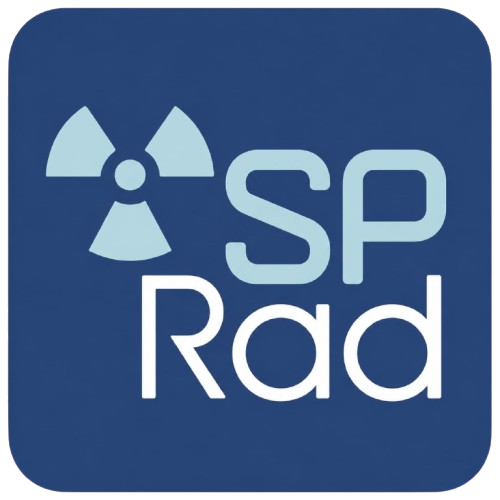
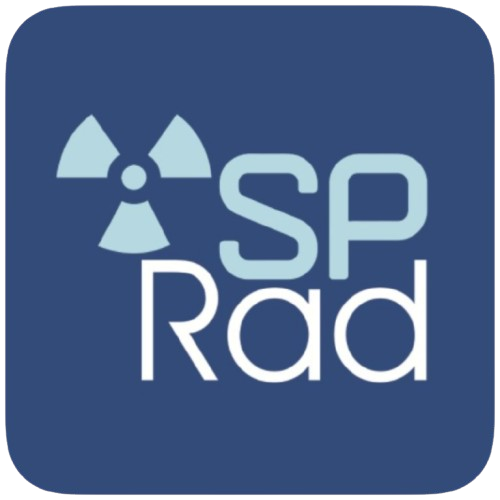
novo iconv2

diff --git a/controle-de-qualidade-em-monitores-e-negatoscopios.html b/controle-de-qualidade-em-monitores-e-negatoscopios.html
@@ -1,4 +1,4 @@
-<!DOCTYPE html>
+<!DOCTYPE html>
 <html lang="pt-br">
 <head>
 <!-- Google Tag Manager -->
@@ -17,8 +17,8 @@ j=d.createElement(s),dl=l!='dataLayer'?'&l='+l:'';j.async=true;j.src=
 <meta property="og:type" content="website">
 <meta property="og:title" content="Controle de Qualidade em Monitores e Negatoscópios | SP Rad">
 <meta property="og:description" content="Controle de qualidade para visualização diagnóstica com máxima precisão.">
-<meta property="og:url" content="https://pedroferrao.com/controle-de-qualidade-em-monitores-e-negatoscopios">
-<meta property="og:image" content="https://pedroferrao.com/miniaturas/controle-de-qualidade-em-monitores-e-negatoscopios.jpg">
+<meta property="og:url" content="https://www.sprad.com.br/controle-de-qualidade-em-monitores-e-negatoscopios">
+<meta property="og:image" content="https://www.sprad.com.br/miniaturas/controle-de-qualidade-em-monitores-e-negatoscopios.jpg">
 <meta property="og:site_name" content="SP Rad">
 <title>Controle de Qualidade em Monitores e Negatoscópios | SP Rad</title>
 <link href="https://fonts.googleapis.com/css2?family=Poppins:wght@300;400;500;600;700;800&display=swap" rel="stylesheet">

diff --git a/controle-de-qualidade-em-ressonancia-magnetica.html b/controle-de-qualidade-em-ressonancia-magnetica.html
@@ -1,4 +1,4 @@
-<!DOCTYPE html>
+<!DOCTYPE html>
 <html lang="pt-br">
 <head>
 <!-- Google Tag Manager -->
@@ -17,8 +17,8 @@ j=d.createElement(s),dl=l!='dataLayer'?'&l='+l:'';j.async=true;j.src=
 <meta property="og:type" content="website">
 <meta property="og:title" content="Controle de Qualidade em Ressonância Magnética | SP Rad">
 <meta property="og:description" content="Avaliação da qualidade e desempenho de equipamentos de ressonância magnética.">
-<meta property="og:url" content="https://pedroferrao.com/controle-de-qualidade-em-ressonancia-magnetica">
-<meta property="og:image" content="https://pedroferrao.com/miniaturas/controle-de-qualidade-em-ressonancia-magnetica.jpeg">
+<meta property="og:url" content="https://www.sprad.com.br/controle-de-qualidade-em-ressonancia-magnetica">
+<meta property="og:image" content="https://www.sprad.com.br/miniaturas/controle-de-qualidade-em-ressonancia-magnetica.jpeg">
 <meta property="og:site_name" content="SP Rad">
 <title>Controle de Qualidade em Ressonância Magnética | SP Rad</title>
 <link href="https://fonts.googleapis.com/css2?family=Poppins:wght@300;400;500;600;700;800&display=swap" rel="stylesheet">

diff --git a/levantamento-radiometrico-e-teste-de-fuga.html b/levantamento-radiometrico-e-teste-de-fuga.html
@@ -1,4 +1,4 @@
-<!DOCTYPE html>
+<!DOCTYPE html>
 <html lang="pt-br">
 <head>
 <!-- Google Tag Manager -->
@@ -17,8 +17,8 @@ j=d.createElement(s),dl=l!='dataLayer'?'&l='+l:'';j.async=true;j.src=
 <meta property="og:type" content="website">
 <meta property="og:title" content="Levantamento Radiométrico e Teste de Fuga | SP Rad">
 <meta property="og:description" content="Avaliação radiométrica e testes de fuga com precisão e conformidade normativa.">
-<meta property="og:url" content="https://pedroferrao.com/levantamento-radiometrico-e-teste-de-fuga">
-<meta property="og:image" content="https://pedroferrao.com/miniaturas/levantamento-radiometrico-e-teste-de-fuga.jpeg">
+<meta property="og:url" content="https://www.sprad.com.br/levantamento-radiometrico-e-teste-de-fuga">
+<meta property="og:image" content="https://www.sprad.com.br/miniaturas/levantamento-radiometrico-e-teste-de-fuga.jpeg">
 <meta property="og:site_name" content="SP Rad">
 <title>Levantamento Radiométrico e Teste de Fuga | SP Rad</title>
 <link href="https://fonts.googleapis.com/css2?family=Poppins:wght@300;400;500;600;700;800&display=swap" rel="stylesheet">

diff --git a/integridade-de-epis-radiologicos.html b/integridade-de-epis-radiologicos.html
@@ -1,4 +1,4 @@
-<!DOCTYPE html>
+<!DOCTYPE html>
 <html lang="pt-br">
 <head>
 <!-- Google Tag Manager -->
@@ -17,8 +17,8 @@ j=d.createElement(s),dl=l!='dataLayer'?'&l='+l:'';j.async=true;j.src=
 <meta property="og:type" content="website">
 <meta property="og:title" content="Avaliação de Integridade de EPIs Radiológicos | SP Rad">
 <meta property="og:description" content="Avaliação da integridade de EPIs radiológicos para maior segurança ocupacional.">
-<meta property="og:url" content="https://pedroferrao.com/integridade-de-epis-radiologicos">
-<meta property="og:image" content="https://pedroferrao.com/miniaturas/integridade-de-epis-radiologicos.jpeg">
+<meta property="og:url" content="https://www.sprad.com.br/integridade-de-epis-radiologicos">
+<meta property="og:image" content="https://www.sprad.com.br/miniaturas/integridade-de-epis-radiologicos.jpeg">
 <meta property="og:site_name" content="SP Rad">
 <title>Avaliação de Integridade de EPIs Radiológicos | SP Rad</title>
 <link href="https://fonts.googleapis.com/css2?family=Poppins:wght@300;400;500;600;700;800&display=swap" rel="stylesheet">

diff --git a/controle-de-qualidade-em-ultrassom.html b/controle-de-qualidade-em-ultrassom.html
@@ -1,4 +1,4 @@
-<!DOCTYPE html>
+<!DOCTYPE html>
 <html lang="pt-br">
 <head>
 <!-- Google Tag Manager -->
@@ -17,8 +17,8 @@ j=d.createElement(s),dl=l!='dataLayer'?'&l='+l:'';j.async=true;j.src=
 <meta property="og:type" content="website">
 <meta property="og:title" content="Controle de Qualidade em Ultrassom Diagnóstico | SP Rad">
 <meta property="og:description" content="Verificação da qualidade de imagem e desempenho em ultrassonografia.">
-<meta property="og:url" content="https://sprad.vercel.app/controle-de-qualidade-em-ultrassom">
-<meta property="og:image" content="https://sprad.vercel.app/miniaturas/controle-de-qualidade-em-ultrassom.jpeg">
+<meta property="og:url" content="https://www.sprad.com.br/controle-de-qualidade-em-ultrassom">
+<meta property="og:image" content="https://www.sprad.com.br/miniaturas/controle-de-qualidade-em-ultrassom.jpeg">
 <meta property="og:site_name" content="SP Rad">
 <title>Controle de Qualidade em Ultrassom Diagnóstico  | SP Rad</title>
 <link href="https://fonts.googleapis.com/css2?family=Poppins:wght@300;400;500;600;700;800&display=swap" rel="stylesheet">

diff --git a/programa-de-garantia-de-qualidade-pgq.html b/programa-de-garantia-de-qualidade-pgq.html
@@ -1,4 +1,4 @@
-<!DOCTYPE html>
+<!DOCTYPE html>
 <html lang="pt-br">
 <head>
 <!-- Google Tag Manager -->
@@ -17,8 +17,8 @@ j=d.createElement(s),dl=l!='dataLayer'?'&l='+l:'';j.async=true;j.src=
 <meta property="og:type" content="website">
 <meta property="og:title" content="Programa de Garantia de Qualidade (PGQ) | SP Rad">
 <meta property="og:description" content="Desenvolvimento de PGQ para gestão da qualidade em serviços radiológicos.">
-<meta property="og:url" content="https://pedroferrao.com/programa-de-garantia-de-qualidade-pgq">
-<meta property="og:image" content="https://pedroferrao.com/miniaturas/programa-de-garantia-de-qualidade-pgq.jpeg">
+<meta property="og:url" content="https://www.sprad.com.br/programa-de-garantia-de-qualidade-pgq">
+<meta property="og:image" content="https://www.sprad.com.br/miniaturas/programa-de-garantia-de-qualidade-pgq.jpeg">
 <meta property="og:site_name" content="SP Rad">
 <title>Programa de Garantia de Qualidade (PGQ) | SP Rad</title>
 <link href="https://fonts.googleapis.com/css2?family=Poppins:wght@300;400;500;600;700;800&display=swap" rel="stylesheet">

diff --git a/supervisao-de-protecao-radiologica.html b/supervisao-de-protecao-radiologica.html
@@ -1,4 +1,4 @@
-<!DOCTYPE html>
+<!DOCTYPE html>
 <html lang="pt-br">
 <head>
 <!-- Google Tag Manager -->
@@ -17,8 +17,8 @@ j=d.createElement(s),dl=l!='dataLayer'?'&l='+l:'';j.async=true;j.src=
 <meta property="og:type" content="website">
 <meta property="og:title" content="Supervisão de Proteção Radiológica | SP Rad">
 <meta property="og:description" content="Supervisão especializada para segurança e conformidade regulatória.">
-<meta property="og:url" content="https://pedroferrao.com/supervisao-de-protecao-radiologica">
-<meta property="og:image" content="https://pedroferrao.com/miniaturas/supervisao-de-protecao-radiologica.jpeg">
+<meta property="og:url" content="https://www.sprad.com.br/supervisao-de-protecao-radiologica">
+<meta property="og:image" content="https://www.sprad.com.br/miniaturas/supervisao-de-protecao-radiologica.jpeg">
 <meta property="og:site_name" content="SP Rad">
 <title>Supervisão de Proteção Radiológica | SP Rad</title>
 <link href="https://fonts.googleapis.com/css2?family=Poppins:wght@300;400;500;600;700;800&display=swap" rel="stylesheet">

diff --git a/controle-de-qualidade-em-radiologia.html b/controle-de-qualidade-em-radiologia.html
@@ -1,4 +1,4 @@
-<!DOCTYPE html>
+<!DOCTYPE html>
 <html lang="pt-br">
 <head>
 <!-- Google Tag Manager -->
@@ -17,8 +17,8 @@ j=d.createElement(s),dl=l!='dataLayer'?'&l='+l:'';j.async=true;j.src=
 <meta property="og:type" content="website">
 <meta property="og:title" content="Controle de Qualidade em Radiologia | SP Rad">
 <meta property="og:description" content="Controle de qualidade para imagens seguras e diagnósticos confiáveis.">
-<meta property="og:url" content="https://pedroferrao.com/controle-de-qualidade-em-radiologia">
-<meta property="og:image" content="https://pedroferrao.com/miniaturas/controle-de-qualidade-em-radiologia.jpeg">
+<meta property="og:url" content="https://www.sprad.com.br/controle-de-qualidade-em-radiologia">
+<meta property="og:image" content="https://www.sprad.com.br/miniaturas/controle-de-qualidade-em-radiologia.jpeg">
 <meta property="og:site_name" content="SP Rad">
 <title>Controle de Qualidade em Radiologia | SP Rad</title>
 <link href="https://fonts.googleapis.com/css2?family=Poppins:wght@300;400;500;600;700;800&display=swap" rel="stylesheet">

diff --git a/treinamento-em-protecao-radiologica.html b/treinamento-em-protecao-radiologica.html
@@ -1,4 +1,4 @@
-<!DOCTYPE html>
+<!DOCTYPE html>
 <html lang="pt-br">
 <head>
 <!-- Google Tag Manager -->
@@ -17,8 +17,8 @@ j=d.createElement(s),dl=l!='dataLayer'?'&l='+l:'';j.async=true;j.src=
 <meta property="og:type" content="website">
 <meta property="og:title" content="Treinamento em Proteção Radiológica | SP Rad">
 <meta property="og:description" content="Capacitação em radioproteção para profissionais e equipes de saúde.">
-<meta property="og:url" content="https://pedroferrao.com/treinamento-em-protecao-radiologica">
-<meta property="og:image" content="https://pedroferrao.com/Imagens/treinamento-em-protecao-radiologica.jpg">
+<meta property="og:url" content="https://www.sprad.com.br/treinamento-em-protecao-radiologica">
+<meta property="og:image" content="https://www.sprad.com.br/Imagens/treinamento-em-protecao-radiologica.jpg">
 <meta property="og:site_name" content="SP Rad">
 <title>Treinamento em Proteção Radiológica | SP Rad</title>
 <link href="https://fonts.googleapis.com/css2?family=Poppins:wght@300;400;500;600;700;800&display=swap" rel="stylesheet">

diff --git a/plano-de-protecao-radiologica-ppr.html b/plano-de-protecao-radiologica-ppr.html
@@ -1,4 +1,4 @@
-<!DOCTYPE html>
+<!DOCTYPE html>
 <html lang="pt-br">
 <head>
 <!-- Google Tag Manager -->
@@ -17,8 +17,8 @@ j=d.createElement(s),dl=l!='dataLayer'?'&l='+l:'';j.async=true;j.src=
 <meta property="og:type" content="website">
 <meta property="og:title" content="Plano de Proteção Radiológica (PPR) | SP Rad">
 <meta property="og:description" content="Elaboração de PPR para conformidade e segurança em radioproteção.">
-<meta property="og:url" content="https://pedroferrao.com/plano-de-protecao-radiologica-ppr">
-<meta property="og:image" content="https://pedroferrao.com/miniaturas/plano-de-protecao-radiologica-ppr.jpeg">
+<meta property="og:url" content="https://www.sprad.com.br/plano-de-protecao-radiologica-ppr">
+<meta property="og:image" content="https://www.sprad.com.br/miniaturas/plano-de-protecao-radiologica-ppr.jpeg">
 <meta property="og:site_name" content="SP Rad">
 <title>Plano de Proteção Radiológica (PPR) | SP Rad</title>
 <link href="https://fonts.googleapis.com/css2?family=Poppins:wght@300;400;500;600;700;800&display=swap" rel="stylesheet">

diff --git a/servicos-em-protecao-radiologica.html b/servicos-em-protecao-radiologica.html
@@ -1,4 +1,4 @@
-<!DOCTYPE html>
+<!DOCTYPE html>
 <html lang="pt-br">
 <head>
 <!-- Google Tag Manager -->
@@ -17,8 +17,8 @@ j=d.createElement(s),dl=l!='dataLayer'?'&l='+l:'';j.async=true;j.src=
     <meta property="og:type" content="website">
     <meta property="og:title" content="Serviços em Proteção Radiológica | SP Rad">
     <meta property="og:description" content="Soluções completas em radioproteção.">
-    <meta property="og:url" content="https://pedroferrao.com/servicos-em-protecao-radiologica">
-    <meta property="og:image" content="https://pedroferrao.com/miniaturas/servicos.jpeg">
+    <meta property="og:url" content="https://www.sprad.com.br/servicos-em-protecao-radiologica">
+    <meta property="og:image" content="https://www.sprad.com.br/miniaturas/servicos.jpeg">
     <meta property="og:site_name" content="SP Rad">
     <title>Serviços em Proteção Radiológica | SP Rad</title>
     <link href="https://fonts.googleapis.com/css2?family=Poppins:wght@300;400;500;600;700;800&display=swap" rel="stylesheet">

diff --git a/radiologia-odontologica.html b/radiologia-odontologica.html
@@ -1,4 +1,4 @@
-<!DOCTYPE html>
+<!DOCTYPE html>
 <html lang="pt-br">
 <head>
 <!-- Google Tag Manager -->
@@ -17,8 +17,8 @@ j=d.createElement(s),dl=l!='dataLayer'?'&l='+l:'';j.async=true;j.src=
 <meta property="og:type" content="website">
 <meta property="og:title" content="Radiologia Odontológica | SP Rad">
 <meta property="og:description" content="Soluções em radioproteção para clínicas e serviços de radiologia odontológica.">
-<meta property="og:url" content="https://pedroferrao.com/radiologia-odontologica">
-<meta property="og:image" content="https://pedroferrao.com/miniaturas/radiologia-odontologica.jpg">
+<meta property="og:url" content="https://www.sprad.com.br/radiologia-odontologica">
+<meta property="og:image" content="https://www.sprad.com.br/miniaturas/radiologia-odontologica.jpg">
 <meta property="og:site_name" content="SP Rad">
 <title>Radiologia Odontológica | SP Rad</title>
 <link href="https://fonts.googleapis.com/css2?family=Poppins:wght@300;400;500;600;700;800&display=swap" rel="stylesheet">
